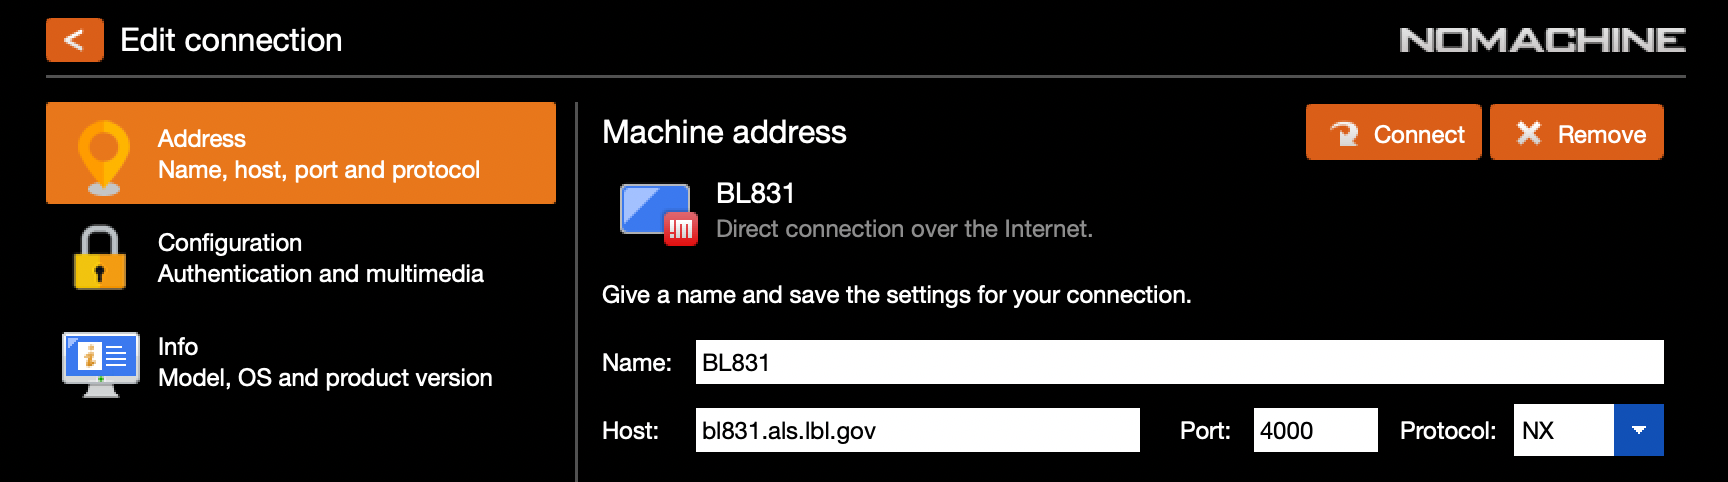
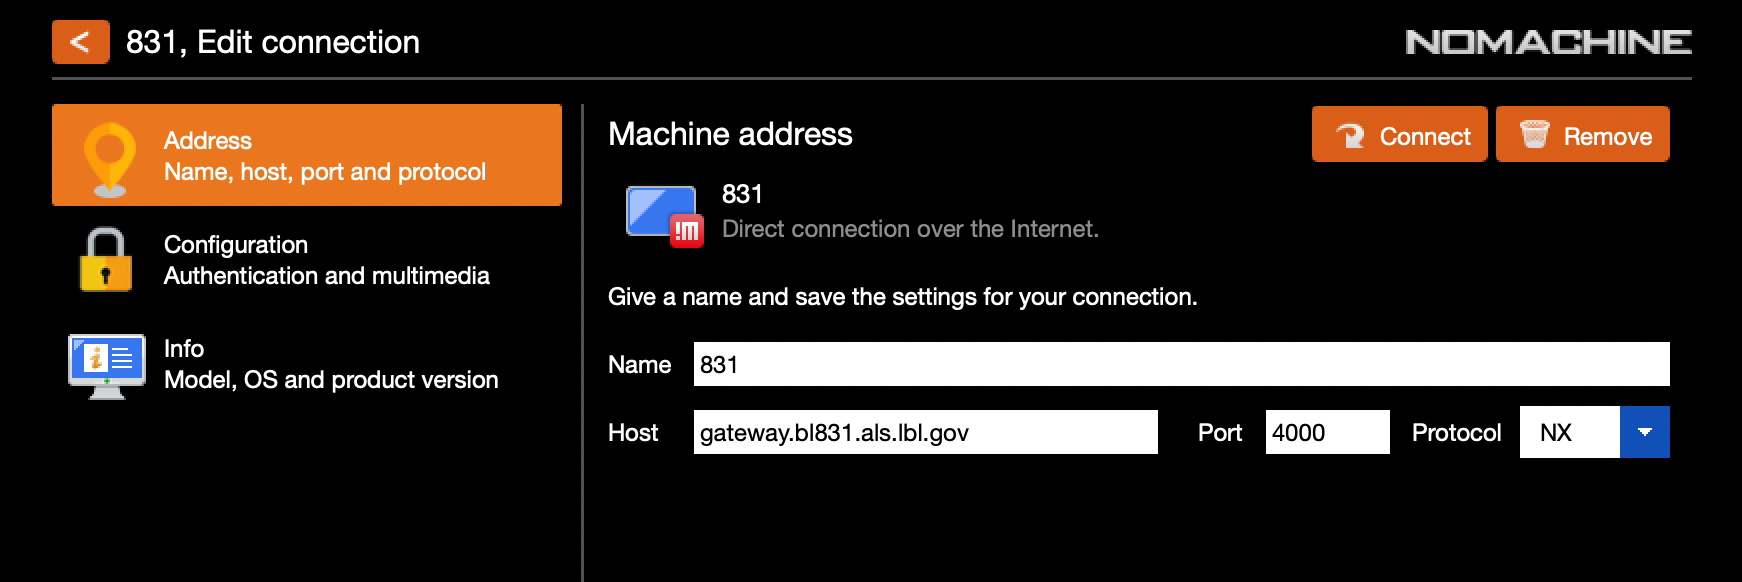
update NX instructions for new gateway FQDN

Changed region(s): [[0.0, 0.0311, 0.9688, 0.8402], [0.3438, 0.5602, 0.9688, 0.8091], [0.3438, 0.8402, 0.9688, 0.9647]]

diff --git a/procedures/remote_procedures/remote.md b/procedures/remote_procedures/remote.md
@@ -15,11 +15,11 @@ software from a linux desktop using a NoMachine NX client.
 ## Connect to beamline using NoMachine NX
 
 1. Make sure you have the latest version of NoMachine's
-   [NX Client](https://www.nomachine.com/download)  
+   [NX Client](https://www.nomachine.com/download)
 
 2. Configure your connection profile thusly:
    Set `Name` to something you will recognize (BL831 in this example), and set the `Host` to
-   bl831.als.lbl.gov `Port` to 4000, and `Protocol` to NX. <img src="/assets/images/nx_setup_1.png" class= "img-fluid rounded-3 py-3" alt="Image of NX Connection Profile 1" >
+   gateway.bl831.als.lbl.gov `Port` to 4000, and `Protocol` to NX. <img src="/assets/images/nx_setup_1.png" class= "img-fluid rounded-3 py-3" alt="Image of NX Connection Profile 1" >
 
 3. Check the `Use password authentication` option. The rest of the setting can probably be left as-is. <img src="/assets/images/nx_setup_2.png" class= "img-fluid rounded-3 py-3" alt="Image of NX Connection Profile 2" >
 
